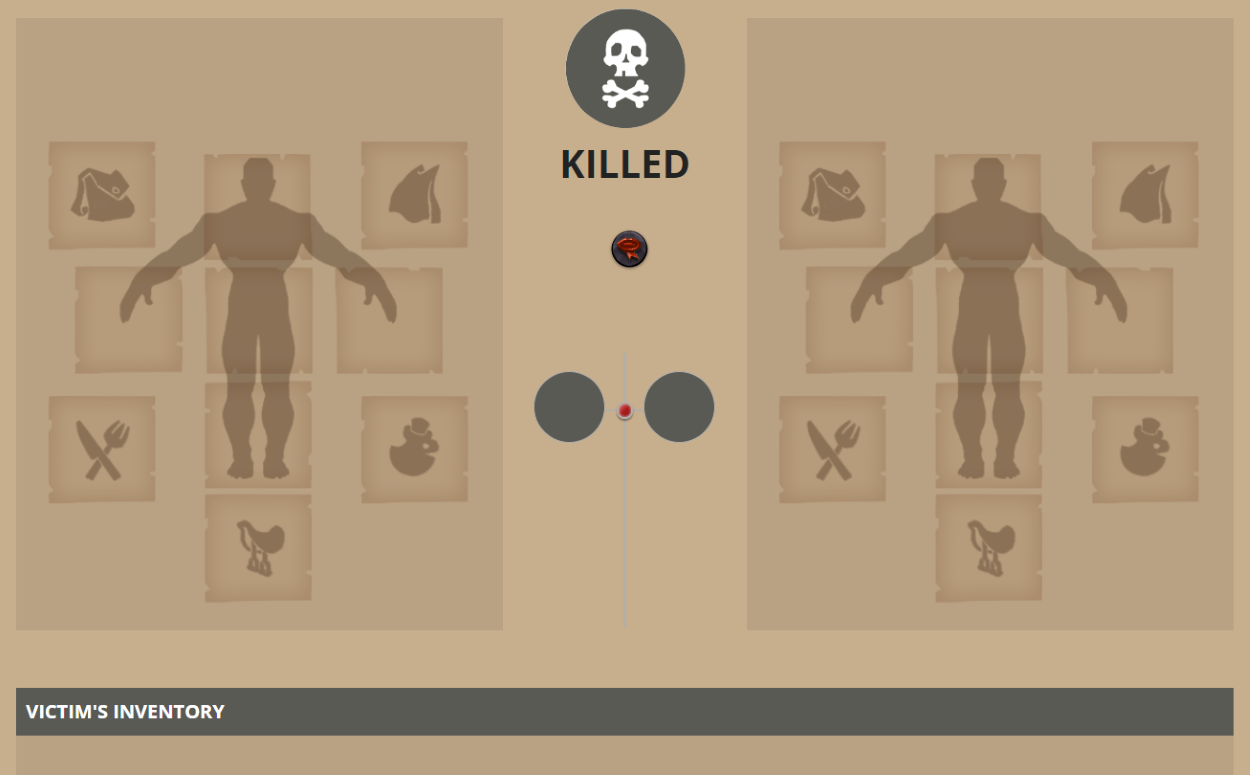
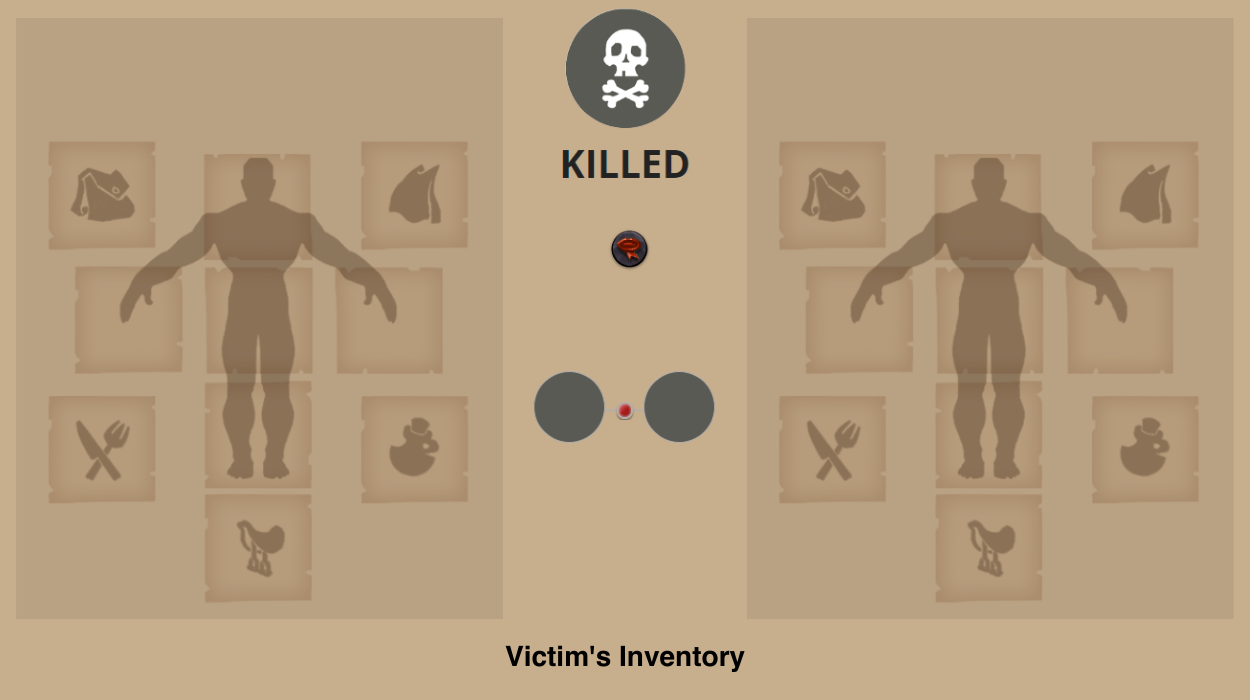
add display victim inventory

diff --git a/internal/pkg/app/handleImage.go b/internal/pkg/app/handleImage.go
@@ -16,19 +16,43 @@ import (
 )
 
 var background image.Image
+var backgroundInven image.Image
+var inventory image.Image
 
 var bounds []image.Rectangle
 var fontBold font.Face
 var fontNormal font.Face
 
 func init() {
-	imgFile1, err := os.Open("assets/background-1.png")
+	imgFile1, err := os.Open("assets/background.png")
 
 	if err != nil {
 		fmt.Println(err)
 	}
 
 	background, _, err = image.Decode(imgFile1)
+	if err != nil {
+		fmt.Println(err)
+	}
+
+	imgFile1, err = os.Open("assets/background-1.png")
+
+	if err != nil {
+		fmt.Println(err)
+	}
+
+	backgroundInven, _, err = image.Decode(imgFile1)
+	if err != nil {
+		fmt.Println(err)
+	}
+
+	imgFile1, err = os.Open("assets/inventory.png")
+
+	if err != nil {
+		fmt.Println(err)
+	}
+
+	inventory, _, err = image.Decode(imgFile1)
 	if err != nil {
 		fmt.Println(err)
 	}
@@ -67,6 +91,8 @@ func init() {
 		background.Bounds().Add(image.Point{925, 260}),
 		background.Bounds().Add(image.Point{925, 375}),
 		background.Bounds().Add(image.Point{925, 488}),
+		backgroundInven.Bounds(),
+		inventory.Bounds(),
 	}
 }
 
@@ -132,11 +158,36 @@ func HandleImage(event config.Event) (string, error) {
 			fmt.Println(event.Victim.GuildName)
 		}
 	}()
+	// size := bounds[0].Max.Add(image.Point{0, 150})
 
-	r := image.Rectangle{image.Point{0, 0}, bounds[0].Max}
-	rgba := image.NewRGBA(r)
+	// fmt.Println(event.Victim.Inventory[0])
 
-	draw.Draw(rgba, bounds[0], background, image.Point{0, 0}, draw.Src)
+	victimInventorySlot := 0
+	i := 0
+	for i = 0; i < len(event.Victim.Inventory); i++ {
+		if event.Victim.Inventory[i].Count == 0 {
+			break
+		}
+	}
+	if event.Victim.Inventory[i].Count != 0 {
+		victimInventorySlot = i + 1
+	} else {
+		victimInventorySlot = i
+	}
+
+	var r image.Rectangle
+	var rgba *image.RGBA
+
+	if victimInventorySlot > 0 {
+		r = image.Rectangle{image.Point{0, 0}, bounds[21].Max.Add(image.Point{0, 150 * int((victimInventorySlot-1)/9+1)})}
+		rgba = image.NewRGBA(r)
+		draw.Draw(rgba, bounds[21], backgroundInven, image.Point{0, 0}, draw.Src)
+	} else {
+		r = image.Rectangle{image.Point{0, 0}, bounds[0].Max}
+		rgba = image.NewRGBA(r)
+		draw.Draw(rgba, bounds[0], background, image.Point{0, 0}, draw.Src)
+	}
+
 	// Killer equipment
 	InsertItemImage(event.Killer.Equipment.MainHand, bounds[1], rgba)
 	InsertItemImage(event.Killer.Equipment.OffHand, bounds[2], rgba)
@@ -193,7 +244,14 @@ func HandleImage(event config.Event) (string, error) {
 	dc.SetRGB(0.25, 0.25, 0.25)
 	timeString := event.TimeStamp.Format("15:04 2006-01-02")
 	dc.DrawStringAnchored(timeString, 1250/2, 500, 0.5, 0.5)
-	// fmt.Println(event.Victim.Inventory)
+
+	dc.SetRGB(0, 0, 0)
+
+	// dc.DrawStringAnchored("Victim's Inventory", 1250/2, 680, 0.5, 0.5)
+
+	for i := 0; i <= int((victimInventorySlot-1)/9); i++ {
+		InsertLineInventory(rgba, dc, event.Victim.Inventory, i, victimInventorySlot)
+	}
 
 	imgPath := fmt.Sprintf("assets/image/%d.png", event.EventID)
 	err := dc.SavePNG(imgPath)
@@ -201,4 +259,30 @@ func HandleImage(event config.Event) (string, error) {
 		return "", err
 	}
 	return imgPath, nil
+}
+
+func InsertLineInventory(
+	rgba *image.RGBA,
+	dc *gg.Context,
+	inv []struct {
+		Type          string `json:"Type,omitempty"`
+		Count         int    `json:"Count,omitempty"`
+		Quality       int    `json:"Quality,omitempty"`
+		ActiveSpells  []any  `json:"ActiveSpells,omitempty"`
+		PassiveSpells []any  `json:"PassiveSpells,omitempty"`
+	},
+	line int,
+	count int,
+) {
+	dc.SetFontFace(fontNormal)
+	dc.SetRGB(1, 1, 1)
+	draw.Draw(rgba, image.Rectangle{image.Point{0, 700 + 150*line}, image.Point{1250, 700 + 150*(line+1)}}, inventory, image.Point{0, 0}, draw.Src)
+	start := line * 9
+	end := util.If((line+1)*9 < count, (line+1)*9, count)
+	for i := start; i < end; i++ {
+		x_start := 40 + 130*(i%9)
+		y_start := 711 + 150*line
+		InsertItemImage(inv[i], image.Rectangle{image.Point{x_start, y_start}, image.Point{1250, y_start + 150}}, rgba)
+		dc.DrawStringAnchored(strconv.Itoa(inv[i].Count), float64(x_start+98), float64(y_start+90), 0.5, 0.5)
+	}
 }

diff --git a/config/response.go b/config/response.go
@@ -231,7 +231,14 @@ type Event struct {
 				PassiveSpells []any  `json:"PassiveSpells,omitempty"`
 			} `json:"Food,omitempty"`
 		} `json:"Equipment,omitempty"`
-		Inventory          []any   `json:"Inventory,omitempty"`
+		// Inventory          []any   `json:"Inventory,omitempty"`
+		Inventory []struct {
+			Type          string `json:"Type,omitempty"`
+			Count         int    `json:"Count,omitempty"`
+			Quality       int    `json:"Quality,omitempty"`
+			ActiveSpells  []any  `json:"ActiveSpells,omitempty"`
+			PassiveSpells []any  `json:"PassiveSpells,omitempty"`
+		} `json:"Inventory,omitempty"`
 		Name               string  `json:"Name,omitempty"`
 		ID                 string  `json:"Id,omitempty"`
 		GuildName          string  `json:"GuildName,omitempty"`
